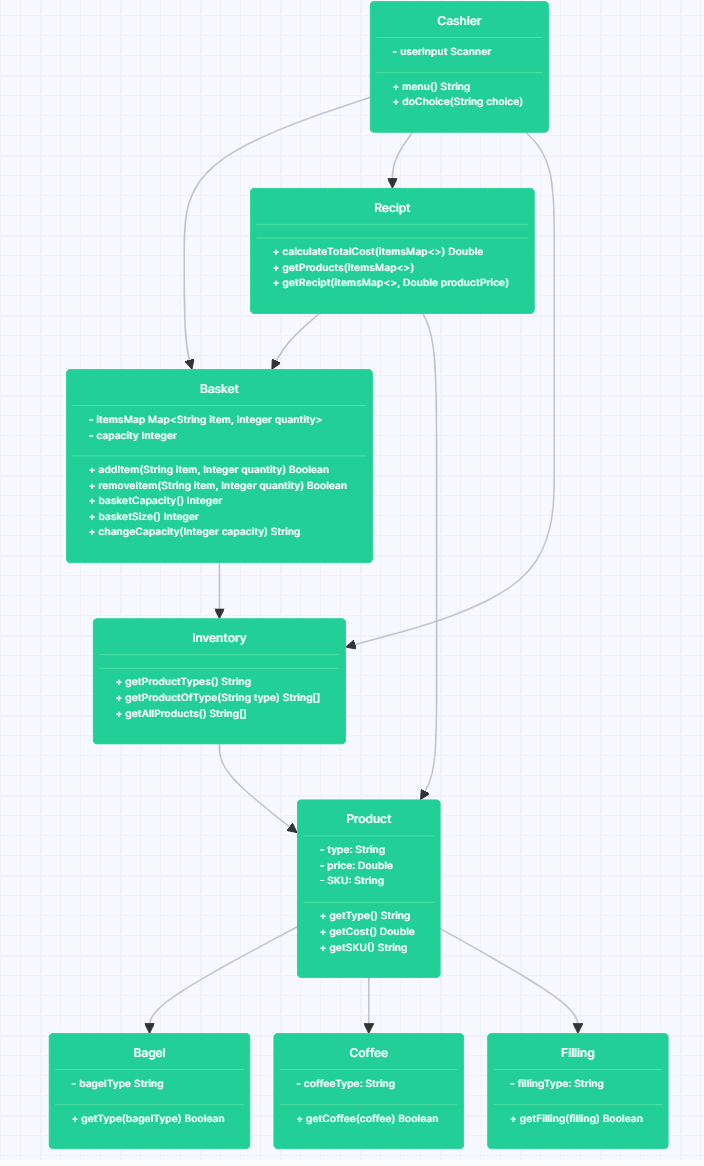
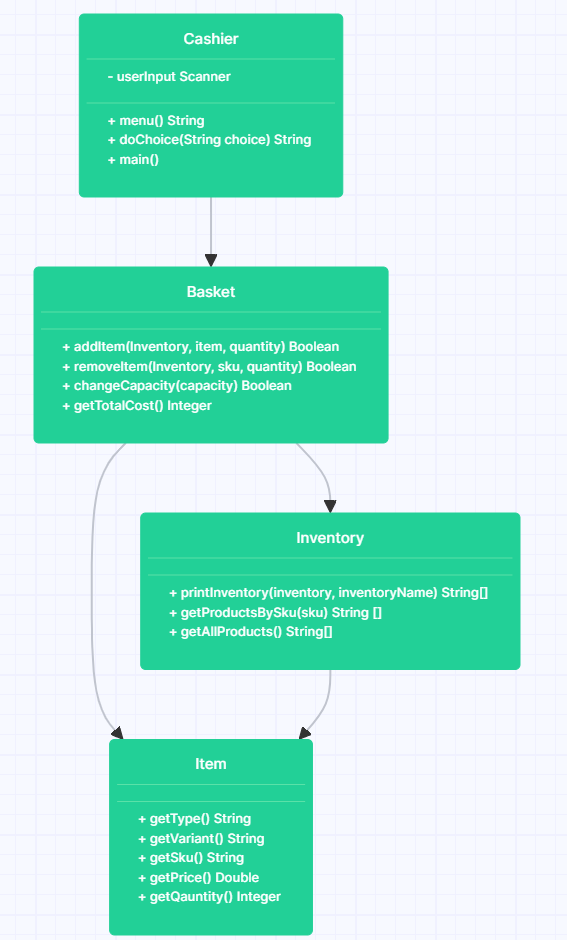
Update class-diagram and domain-model

diff --git a/src/main/java/com/booleanuk/core/Inventory.java b/src/main/java/com/booleanuk/core/Inventory.java
@@ -75,13 +75,4 @@ public class Inventory {
         }
         return null;
     }
-    public double getBagelPrice(String type) {
-        return bagelInventory.get(type).getPrice();
-    }
-    public double getFillingPrice(String type) {
-        return fillingInventory.get(type).getPrice();
-    }
-    public double getCoffeePrice(String type) {
-        return coffeeInventory.get(type).getPrice();
-    }
 }

diff --git a/domain-model.md b/domain-model.md
@@ -53,30 +53,24 @@ So we don't get any weird requests,
 I want customers to only be able to order things that we stock in our inventory.
 ```
 
-| Class                | Method                             | Member                                            | Scenario                     | Return                |
-|----------------------|------------------------------------|---------------------------------------------------|------------------------------|-----------------------|
-| Cashier              | menu()                             | userInput                                         |                              | requests              |
-|                      | doChoice(choice)                   | userInput                                         |                              | request               |
-| Receipt              | calculateTotalCost(itemsMap)       | itemsMap<String item, int quantity>               | Get cost                     | Double                |
-|                      | getProducts(itemsMap)              | itemsMap<String item, int quantity>               | show products                | String[] All products |
-|                      | getReceipt(itemsMap, productPrice) | itemsMap<String item, int quantity>, productPrice | Show receipt                 | String                |
-| Basket               | addItem(item, quantity)            | String item, Integer quantity                     | full basket                  | false                 |
-|                      |                                    |                                                   | add item                     | true                  |
-|                      |                                    |                                                   | Item not found               | false                 |
-|                      | removeItem(item, quantity)         | String item, Integer quantity                     | remove item                  | true                  |
-|                      |                                    |                                                   | Item not found               | false                 |
-|                      | basketCapacity()                   | Integer capacity                                  | Show capacity                | Int                   |    
-|                      | basketSize()                       |                                                   | Show current size            | Int                   |
-|                      | changeCapacity(newCapacity)        | Integer capacity                                  | set capacity                 | String                |
-| Inventory            | getProductType()                   |                                                   | Get all types                | String[]              |
-|                      | getProductsOfType(type)            | String type                                       | Get all products of one type | String[]              |
-|                      |                                    |                                                   | Invalid type                 | String                |
-|                      | getAllProducts()                   |                                                   | Show all products            | String[]              |
-| Product              | getType()                          |                                                   | invalid type                 | false                 |
-|                      |                                    |                                                   | Valid type                   | true                  |
-|                      | getCost()                          |                                                   | invalid type                 | false                 |
-|                      |                                    |                                                   | Valid type                   | Int                   | 
-|                      | getSKU()                           |                                                   | invalid type                 | false                 |
-|                      |                                    |                                                   | Valid type                   | true                  |                                    |                                                   |                              |                       |
-| Coffee/Bagel/Filling | getCoffee/Bagel/Filling(type)      | Coffee/Bagel/Filling-Type                         | invalid type                 | false                 |
-|                      |                                    |                                                   | valid type                   | true                  |
+| Class                | Method                                   | Member                                                | Scenario                     | Return         |
+|----------------------|------------------------------------------|-------------------------------------------------------|------------------------------|----------------|
+| Cashier              | menu()                                   | userInput                                             |                              | response       |
+|                      | doChoice(choice)                         | userInput                                             |                              | response       |
+|                      | main()                                   |                                                       |                              |                |
+| Basket               | addItem(Inventory, item, quantity)       | Class Inventory, String item, Integer quantity        | full basket                  | false          |
+|                      |                                          |                                                       | add item                     | true           |
+|                      |                                          |                                                       | Item not found               | false          |
+|                      | removeItem(Inventory, sku, quantity)     | Class Inventory, String item, Integer quantity        | remove item                  | true           |
+|                      |                                          |                                                       | Item not found               | false          |
+|                      | changeCapacity(capacity)                 | Integer capacity                                      | Changed capacity             | true           |
+|                      |                                          |                                                       | Unable to change capacity    | false          |
+|                      | getTotalCost()                           | ArrayList<Item>                                       | Get total cost               | Return cost    |
+| Inventory            | printInventory(inventory, inventoryName) | HashMap<String, Item> inventory, String inventoryName | Show all added products      | String[]       |
+|                      | getProductsBySku(sku)                    | String sku                                            | Get all products of one type | String[]       |
+|                      | getAllProducts()                         |                                                       | Show all products            | String[]       |
+| Item                 | getType()                                |                                                       | get type                     | String type    |
+|                      | getVariant()                             |                                                       | get variant                  | String variant |
+|                      | getSku()                                 |                                                       | get sku                      | String sku     |
+|                      | getPrice()                               |                                                       | get price                    | double price   |
+|                      | getQuantity()                            |                                                       | get quantity                 | int quantity   |  
